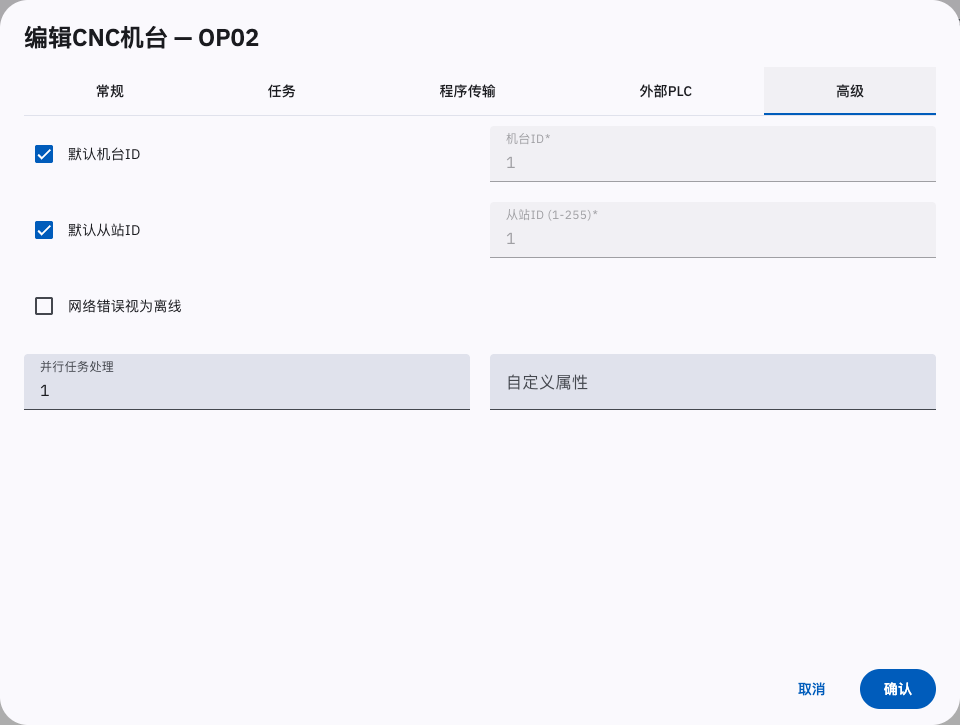
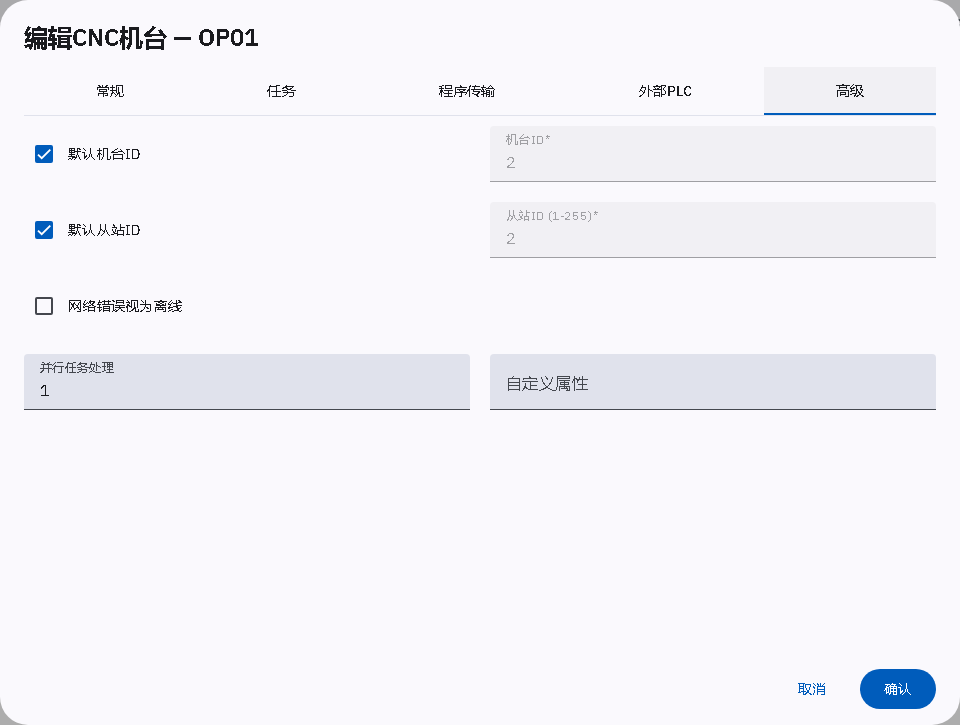
Update documentation and assets for version 1.19.7
- Updated version references in README, Footer, and index files.
- Added changelog entry for new features and improvements.
- Introduced new images for alarm mapping functionality.
- Expanded documentation on alarm mapping and its configuration.

diff --git a/src/content/docs/usage/tasks.md b/src/content/docs/usage/tasks.md
@@ -123,6 +123,28 @@ title: "5.5. 任务配置"
 
 默认判断机台处于警报激活状态的最低报警级别为警告级别。
 
+### 5.5.7.1. 警报映射文件 {#alarm-mapping-files}
+
+**警报映射**用于将机台上报的报警号，映射为自定义的报警内容。适用于只上报报警号、不上报报警文本，或需要统一报警描述的机台。
+
+在"警报监控设置"下方的"警报映射文件"区域，可以上传和管理映射文件：
+
+- 点击**上传警报映射文件**，选择本地 CSV 文件上传，仅支持非空的 CSV 文件。上传后文件出现在列表中。
+- 列表中每个文件右侧有下载与删除按键。
+- 点击**下载模板**，获取一个示例 CSV 模板（`alarm-mapping-template.csv`）。
+- 未上传任何文件时，显示“尚未上传警报映射文件。”。
+
+![警报映射文件](/img/manual/tasks/alarm-mapping-files.png)
+
+警报映射文件为 CSV 格式，包含两列，表头为"报警号"（AlarmNo）与"内容"（Content），例如：
+
+| 报警号 | 内容 |
+| --- | --- |
+| 1000 | 急停按钮被按下 |
+| 2001 | 主轴过载 |
+
+上传映射文件后，需要在[机台配置](/usage/machines/)中对应机台的"当前警报"任务设置中启用警报映射并选择该文件，详见 [5.3.1.2.6. 警报映射](/usage/machines/#alarm-mapping)。
+
 ## 5.5.8. 机台状态监控设置 {#status-monitor}
 
 在"机台监控设置"可以设置机台状态任务的相关选项，包括启用状态详情，启用调机状态修正，和启用转换状态等。此节机台任务相关变量详见《通讯协议》1.2.4. CNCStatus：机台状态。

diff --git a/README.md b/README.md
@@ -1,6 +1,6 @@
 # 彼络物联网关 说明书（文档站）
 
-基于 [Starlight](https://starlight.astro.build/)（Astro）的《彼络物联网关 说明书》在线文档，内容对应说明书 **v1.19.6**，截图取自当前版本的网关 Web 管理页面。
+基于 [Starlight](https://starlight.astro.build/)（Astro）的《彼络物联网关 说明书》在线文档，内容对应说明书 **v1.19.7**，截图取自当前版本的网关 Web 管理页面。
 
 ## 开发
 

diff --git a/src/content/docs/index.md b/src/content/docs/index.md
@@ -2,7 +2,7 @@
 title: "一、简介"
 ---
 
-**彼络物联网关 说明书 · 版本：v1.19.6** · 深圳市彼络科技有限公司 · 联系电话：18824672282
+**彼络物联网关 说明书 · 版本：v1.19.7** · 深圳市彼络科技有限公司 · 联系电话：18824672282
 
 彼络物联网关为数控机床，激光焊接机，机器人，PLC 等设备提供数据采集与加工程序传送服务。用户可以通过一台网关采集管理最多 255 台不同型号的设备。网关适配各大机床系统，提供全面软件接口，配置灵活，即插即用，支持断线重连，断点续传，支持一带多并行采集，支持毫秒级数据采集，支持多种协议转发数据。
 

diff --git a/src/content/docs/changelog.md b/src/content/docs/changelog.md
@@ -4,6 +4,7 @@ title: "版本变更历史记录"
 
 | 版本号 | 变更日期 | 变更描述 | 发布时间 |
 | --- | --- | --- | --- |
+| 1.19.7 | 20260719 | 1. 新增警报映射功能。<br />2. 机台配置新增"网络错误视为离线"（NetworkErrorAsOffline）选项。<br />3. 程序传输下载文件不再带后缀。<br />4. 兼容旧版 Chrome 内核浏览器。 | 20260719 |
 | 1.19.6 | 20260702 | 1. 修改监控台相关说明。 | 20260702 |
 | 1.19.5 | 20260615 | 1. 程序传输页新增查看刀路功能。 | 20260615 |
 | 1.19.4 | 20260528 | 1. 更换新 UI，相应调整内容。<br />2. 新增监控台页。<br />3. 新增 PLC 任务后处理说明。<br />4. 新增自定义任务说明。 | 20260528 |